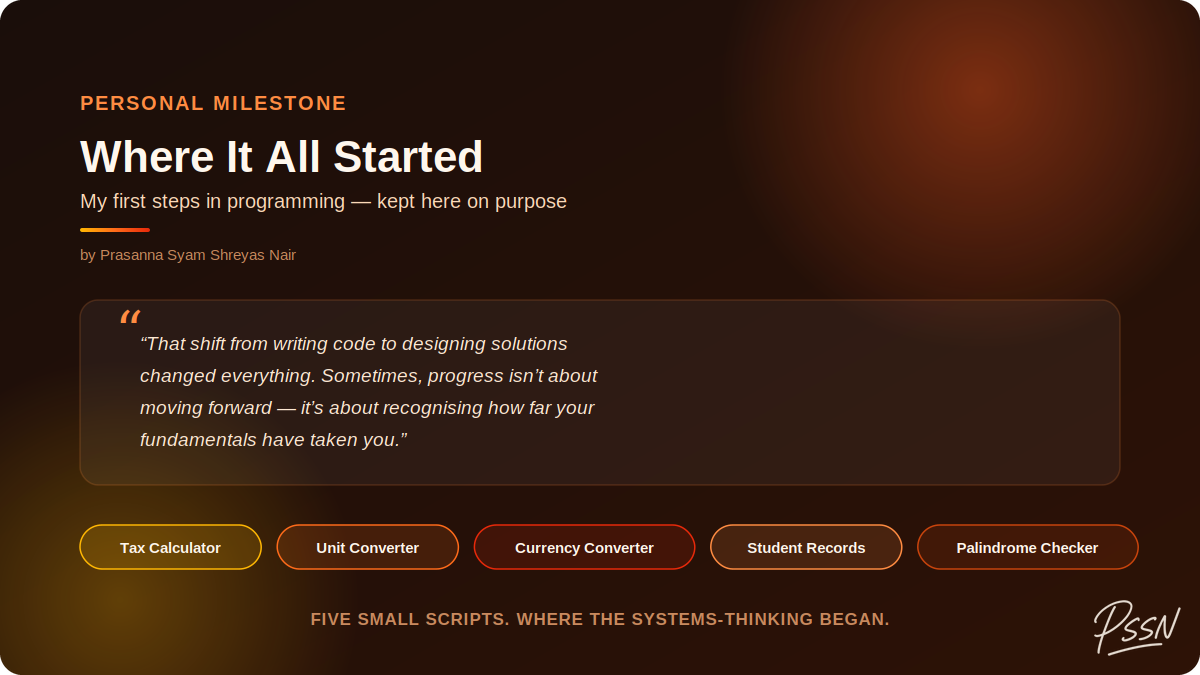
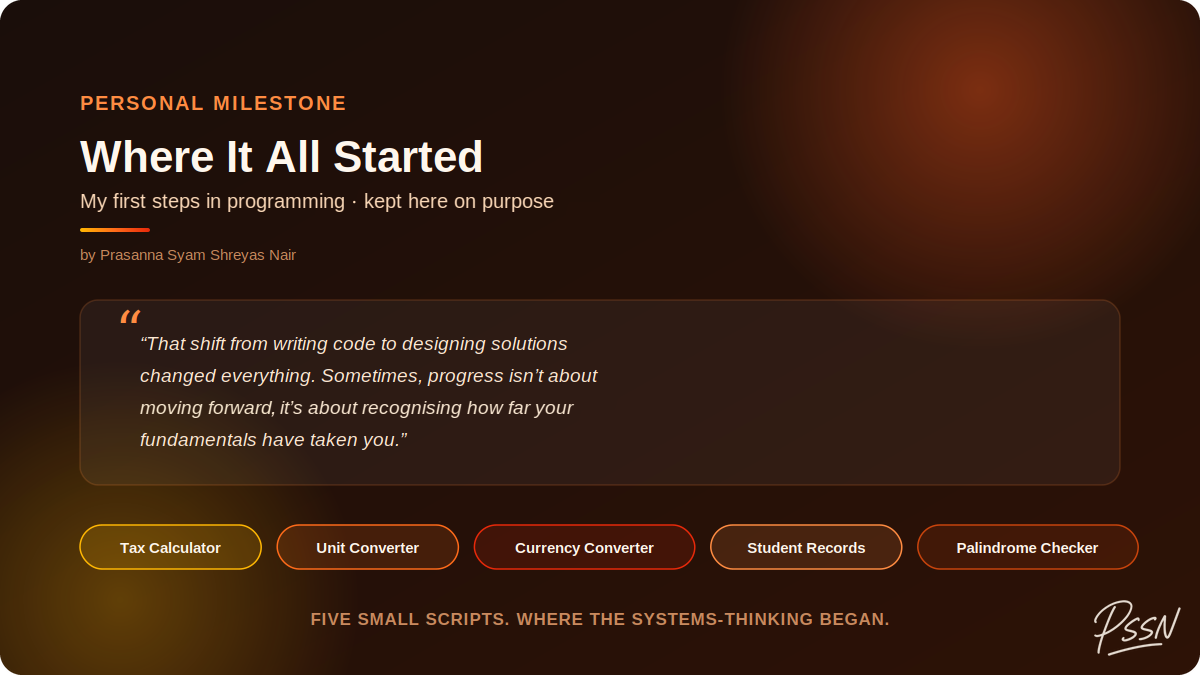
Tidy punctuation

Changed region(s): [[0.0617, 0.28, 0.4933, 0.3111], [0.1233, 0.5911, 0.4933, 0.6222]]

diff --git a/tax_calculator.py b/tax_calculator.py
@@ -40,7 +40,7 @@ Tax Calculator
 
 def calculate_usc(income):  # ▶ Function: https://www.w3schools.com/python/python_functions.asp
     usc = 0  # ▶ Variable declaration: https://www.w3schools.com/python/python_variables.asp
-    # Start with USC as zero — we will add values progressively based on income slabs.
+    # Start with USC as zero; we will add values progressively based on income slabs.
 
     if income <= 12012:  # ▶ if statement: https://www.w3schools.com/python/python_conditions.asp
         # If the total income is less than or equal to €12,012, only the first slab (0.5%) applies.
@@ -70,7 +70,7 @@ def calculate_usc(income):  # ▶ Function: https://www.w3schools.com/python/pyt
         # - 3% on the next €42,662
         # - 8% on the remaining income above €70,044
         usc = 12012 * 0.005 + 15370 * 0.02 + 42662 * 0.03 + (income - 70044) * 0.08
-        # Each slab is calculated and summed up sequentially — last part handles income over €70,044
+        # Each slab is calculated and summed up sequentially; the last part handles income over €70,044
 
     return round(usc, 2)  # ▶ round(): https://www.w3schools.com/python/ref_func_round.asp
     # Round the final USC to 2 decimal places for currency formatting before returning the result
@@ -213,7 +213,7 @@ def get_yes_no(prompt):  # ▶ Function definition
             # If the input matches one of the two acceptable answers, return it
             return response  # Passes back a clean 'yes' or 'no' to the calling function
         else:
-            # Input was not valid — show an error message and repeat the loop
+            # Input was not valid: show an error message and repeat the loop
             print("❌ Please enter 'Yes' or 'No' only.")
             # This message helps guide the user back to correct input format
 
@@ -248,7 +248,7 @@ def get_positive_float(prompt):
             # If input is invalid (e.g., "abc"), this line will raise a ValueError and jump to except
 
             if value <= 0:
-                # Income or tax values must be greater than 0 — no zero or negative allowed
+                # Income or tax values must be greater than 0: no zero or negative allowed
                 print("❌ Enter a positive number greater than 0.")
                 # Error message guiding the user
 
@@ -301,7 +301,7 @@ def get_dependents():
         except ValueError:
             # 🧯 Handles cases where input could not be converted to integer
             print("❌ Please enter a whole number (0, 1, or 2).")
-            # Reminds the user to enter a number — not letters or symbols
+            # Reminds the user to enter a number, not letters or symbols
 
 
 # ===========================================================================================
@@ -313,7 +313,7 @@ def get_dependents():
 # ===========================================================================================
 
 def generate_sol():
-    # This is the main function — it orchestrates the full tax calculation process.
+    # This is the main function; it orchestrates the full tax calculation process.
     # It collects user input, performs all calculations, and prints the results in a readable format.
 
     print("\n================================================================================")
@@ -322,7 +322,7 @@ def generate_sol():
     # Decorative print lines used to create a clear title and structure in the terminal
 
     # ------------------------------------------------------------------------
-    # STEP 1: Collect user input — ensure no empty responses using validation
+    # STEP 1: Collect user input, ensuring no empty responses using validation
     # ------------------------------------------------------------------------
 
     while True:
@@ -346,7 +346,7 @@ def generate_sol():
             # Prompt again if name is left blank
 
     gross_income = get_positive_float("🔷 Enter Annual Gross Income in Euros (e.g., 50,000): ")
-    # Ask the user to enter gross income — validated separately to ensure it’s a positive float
+    # Ask the user to enter gross income, validated separately to ensure it’s a positive float
 
     print("\n🔸 Answer the following questions with Yes or No:")
     # Transition into the next section asking eligibility questions for tax credits
@@ -427,7 +427,7 @@ while True:
 
     generate_sol()  
     # ▶ Function call
-    # Run one full tax calculation — handles input, tax computation, and output formatting
+    # Run one full tax calculation: handles input, tax computation, and output formatting
 
     again = get_yes_no("Would you like to calculate another tax return?")
     # Prompt the user to decide if they want to calculate another return
@@ -439,7 +439,7 @@ while True:
         print("\n👋 Exiting the calculator. Goodbye!")
         # Friendly exit message before terminating
         break  # ▶ break keyword: https://www.w3schools.com/python/ref_keyword_break.asp
-        # Break exits the loop — no further calculations will run
+        # Break exits the loop; no further calculations will run
 
 
 #====================

diff --git a/student_record.py b/student_record.py
@@ -32,7 +32,7 @@ Student Record System
 # Purpose:
 #   This function is responsible for adding a new student record to a file named "students.txt".
 #   It ensures the student ID is unique (no duplicate entries).
-#   Data is saved in CSV format (ID, Name, Course, Marks) — one student per line.
+#   Data is saved in CSV format (ID, Name, Course, Marks), one student per line.
 #
 # File operations used:
 #   - File reading (to check for duplicates)
@@ -62,7 +62,7 @@ def add_student():
     # Ask for the course the student is enrolled in
 
     marks = input("🎯 Enter Marks (0–100): ").strip()
-    # Ask for the student's marks — string for now (can be validated later)
+    # Ask for the student's marks as a string for now (can be validated later)
     
     if not marks.isdigit() or not (0 <= int(marks) <= 100):
      print("❌ Marks must be a number between 0 and 100.")
@@ -102,7 +102,7 @@ def add_student():
     with open("students.txt", "a") as file:
         # ▶ write(): https://www.w3schools.com/python/ref_file_write.asp
         file.write(f"{student_id},{name},{course},{marks}\n")
-        # Format: ID,Name,Course,Marks — separated by commas
+        # Format: ID,Name,Course,Marks, separated by commas
         # Example line: S1023,Arjun,Data Analytics,87
 
         # Confirmation message
@@ -159,7 +159,7 @@ def update_marks():
             for line in file:
                 # ▶ startswith(): https://www.w3schools.com/python/ref_string_startswith.asp
                 if line.startswith(student_id + ","):
-                    # Match found — student exists in file
+                    # Match found: student exists in file
 
                     parts = line.strip().split(",")  
                     # ▶ strip(): https://www.w3schools.com/python/ref_string_strip.asp

diff --git a/unit_converter.py b/unit_converter.py
@@ -227,7 +227,7 @@ def length_convert(value, from_unit, to_unit):  # ▶ Function: https://www.w3sc
 # FUNCTION 5: weight_convert(value, from_unit, to_unit)
 # --------------------------------------------------------------------------------------------
 # Purpose:
-#   Converts a given weight from one unit to another — specifically between:
+#   Converts a given weight from one unit to another, specifically between:
 #     ▪ Kilograms (kg)
 #     ▪ Pounds (lb)
 #
@@ -365,7 +365,7 @@ def unit_converter():  # ▶ Function: https://www.w3schools.com/python/python_f
         # Output (kind) will be a string like: "Temperature", "Length", etc.
 
         # ====================================================================================
-        # STEP 3: Exit Condition — User selected "Exit" from the menu
+        # STEP 3: Exit Condition (user selected "Exit" from the menu)
         # ====================================================================================
 
         if kind == "Exit":

diff --git a/currency_converter.py b/currency_converter.py
@@ -190,11 +190,11 @@ def currency_converter():  # ▶ Function: https://www.w3schools.com/python/pyth
             # This makes input lowercase and removes extra spaces so it works for 'Yes', ' YES ', etc.
 
             if again in ['y', 'yes']:
-                # User wants to continue — break out of this inner loop and restart outer loop
+                # User wants to continue: break out of this inner loop and restart outer loop
                 break
 
             elif again in ['n', 'no']:
-                # User does not want to continue — print exit message and return from function
+                # User does not want to continue: print exit message and return from function
                 print("\n👋 Thank you for using the Currency Converter. Goodbye!")
                 return  # ▶ return: https://www.w3schools.com/python/ref_keyword_return.asp
 

diff --git a/README.md b/README.md
@@ -10,18 +10,18 @@
 
 ## Why this is here
 
-These five scripts are intentionally basic. A tax calculator, a unit converter, a currency converter, a student record system, a palindrome checker — nothing here is meant to show off advanced skill. It's the opposite: this repo stays exactly as simple as it started.
+These five scripts are intentionally basic. A tax calculator, a unit converter, a currency converter, a student record system, a palindrome checker. Nothing here is meant to show off advanced skill. It's the opposite: this repo stays exactly as simple as it started.
 
-Revisiting these reminded me why I got into Business Analytics and Python in the first place. Modelling a real tax system, managing structured records, converting units, checking patterns — these weren't just exercises. They were my first exposure to thinking in systems: breaking a problem into logic, handling edge cases, validating inputs, making sure the output could actually be trusted.
+Revisiting these reminded me why I got into Business Analytics and Python in the first place. Modelling a real tax system, managing structured records, converting units, checking patterns: these weren't just exercises. They were my first exposure to thinking in systems: breaking a problem into logic, handling edge cases, validating inputs, making sure the output could actually be trusted.
 
-That shift — from writing code to designing solutions — is what shaped how I approach problem-solving, scalability, and clarity in analytics today. So this repo isn't here to impress. It's here as a marker of where that started, and a reminder that progress isn't always about moving forward — sometimes it's about recognising how far your fundamentals have taken you.
+That shift, from writing code to designing solutions, is what shaped how I approach problem-solving, scalability, and clarity in analytics today. So this repo isn't here to impress. It's here as a marker of where that started, and a reminder that progress isn't always about moving forward. Sometimes it's about recognising how far your fundamentals have taken you.
 
 ## The scripts
 
 | Script | What it does |
 |---|---|
 | `tax_calculator.py` | Calculates USC, PRSI, and Income Tax liability based on Irish tax bands, applying credits to produce a clean tax statement |
-| `student_record.py` | A student record management system — storing, updating, and querying student data |
+| `student_record.py` | A student record management system for storing, updating, and querying student data |
 | `unit_converter.py` | Converts between common units (length, weight, temperature, etc.) |
 | `currency_converter.py` | Converts between currencies using exchange rates |
 | `palindrome_checker.py` | Checks whether a given string or number is a palindrome |
@@ -31,7 +31,7 @@ That shift — from writing code to designing solutions — is what shaped how I
 ![Tax calculator running](docs/images/1_tax_calculator_in_action.png)
 
 ## Tech
-Pure Python, no external dependencies — each script runs standalone.
+Pure Python with no external dependencies. Each script runs standalone.
 
 <!-- last reviewed: 2026-09 -->
 
